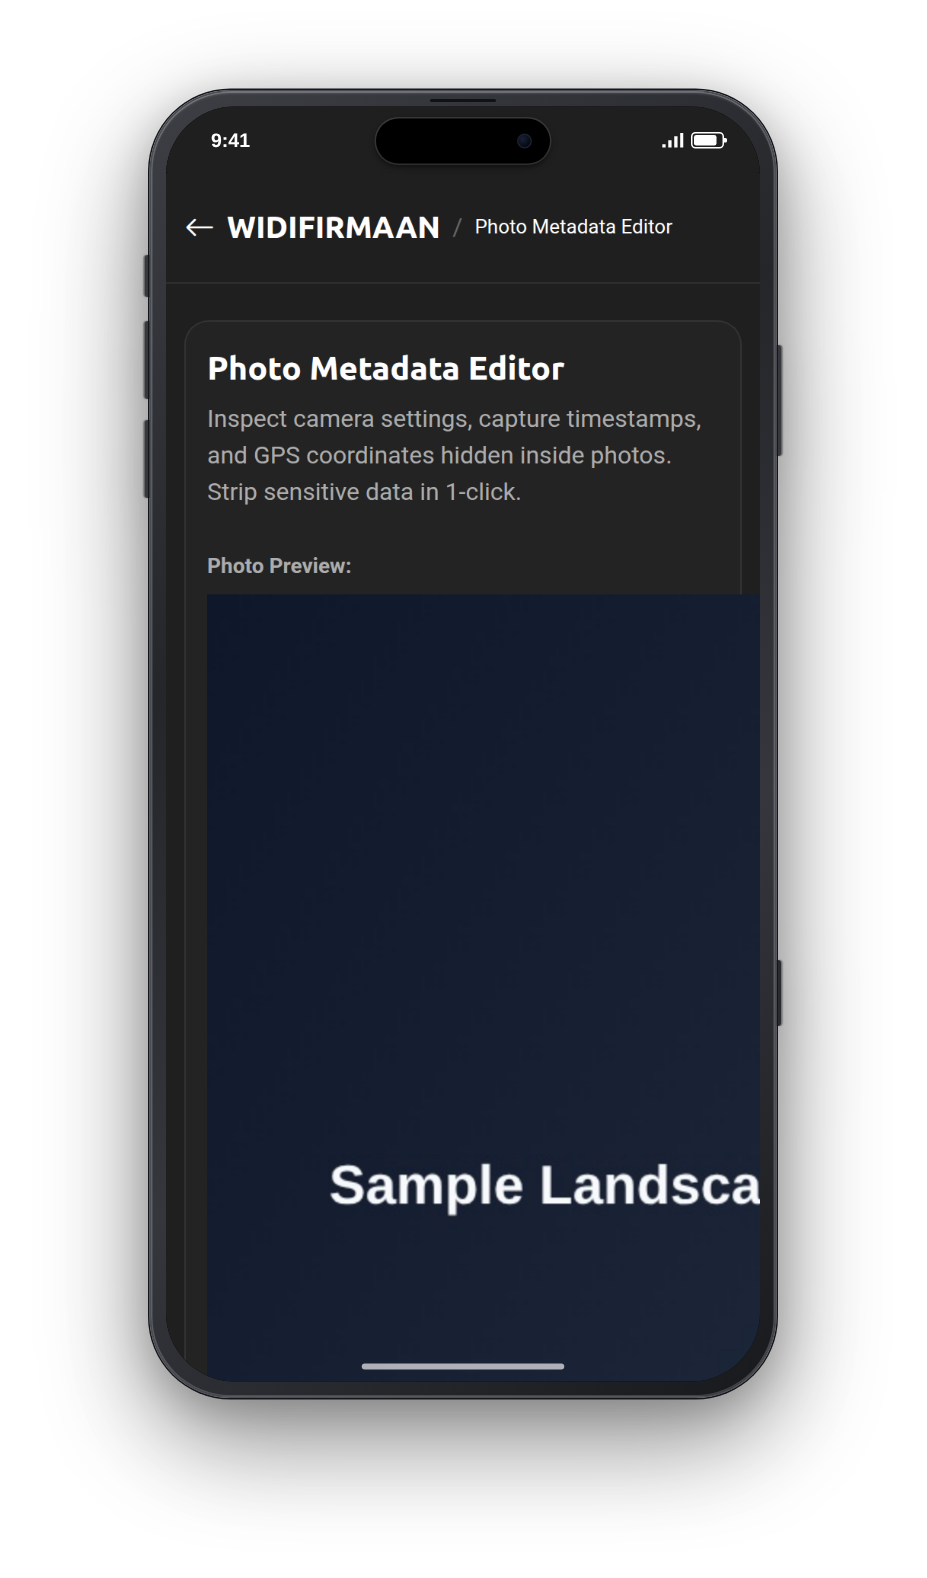
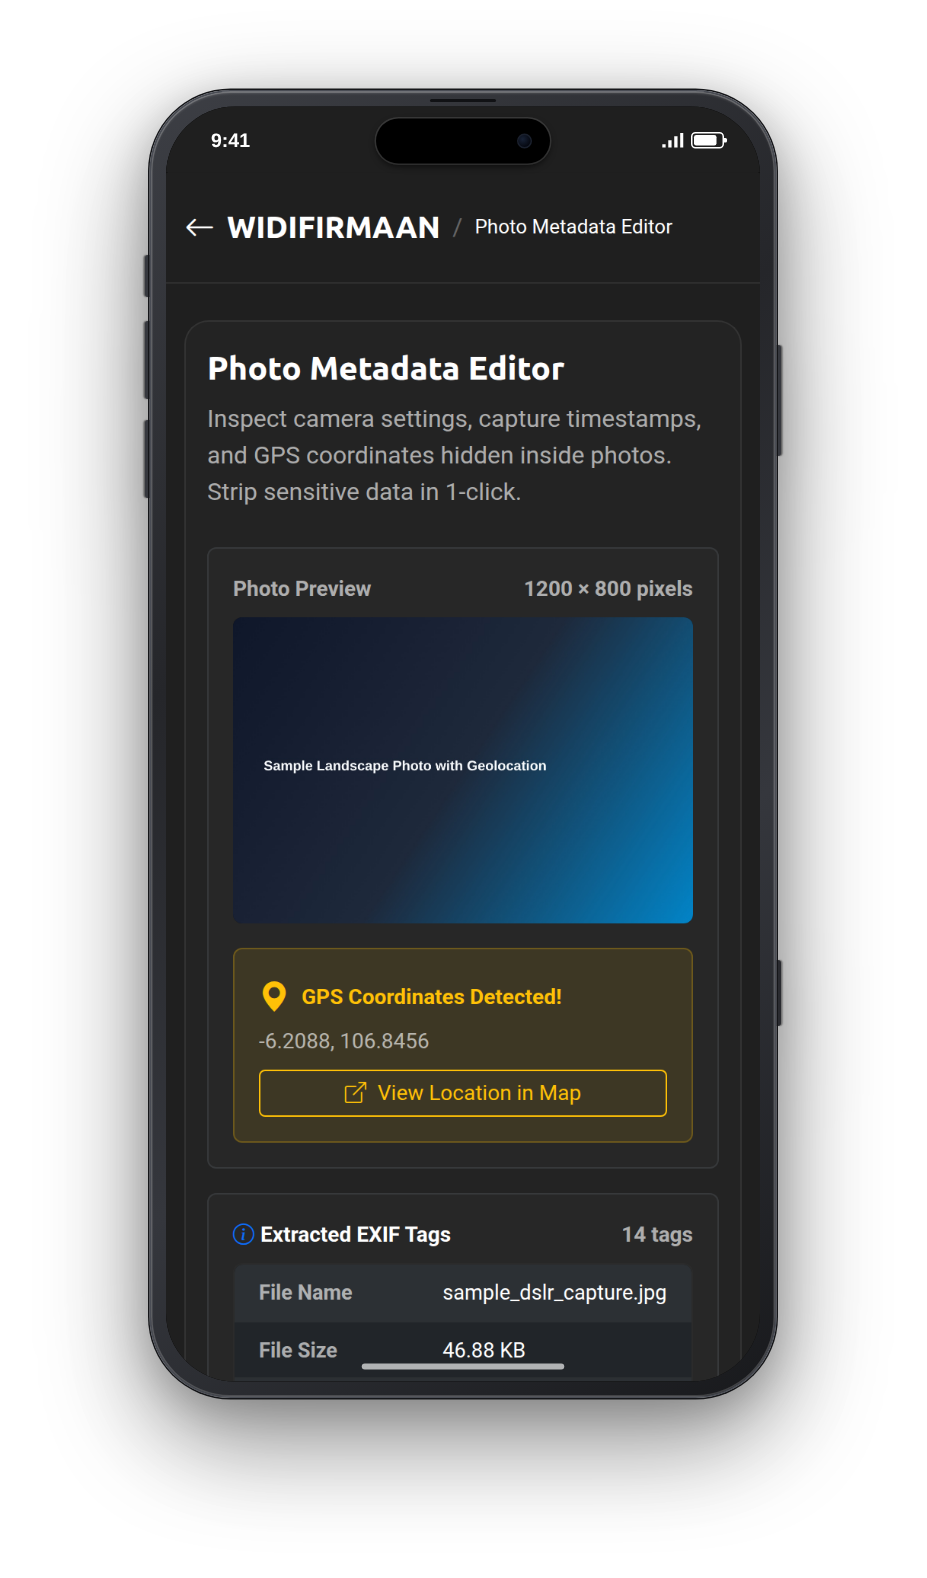
fix(photo-metadata): wrap image preview in checkerboard container and standardize two-column tool-panels

Changed region(s): [[0.2416, 0.3726, 0.8155, 0.8695], [0.2114, 0.3416, 0.3927, 0.4037]]

diff --git a/tools/photo-metadata.html b/tools/photo-metadata.html
@@ -64,36 +64,46 @@
 
               <!-- Metadata Workspace (Hidden initially) -->
               <div id="workspaceArea" class="d-none">
-                <!-- Action Bar -->
-                <div class="row g-4 mb-4">
+                <!-- Comparison / Workspace Panels -->
+                <div class="row g-3 mb-4">
                   <!-- Photo Preview Column -->
-                  <div class="col-md-5">
-                    <label class="form-label text-secondary small fw-bold mb-2">Photo Preview:</label>
-                    <div class="preview-box mb-3">
-                      <img id="photoImgPreview" src="" alt="Photo preview">
-                    </div>
-
-                    <!-- GPS Map Warning Badge (if GPS exists) -->
-                    <div id="gpsAlertBox" class="p-3 rounded border border-warning border-opacity-25 bg-warning bg-opacity-10 d-none">
-                      <div class="d-flex align-items-center gap-2 text-warning fw-bold small mb-1">
-                        <i class="bi bi-geo-alt-fill fs-5"></i> GPS Coordinates Detected!
+                  <div class="col-md-6">
+                    <div class="p-3 rounded border border-secondary border-opacity-25 h-100 d-flex flex-column tool-panel">
+                      <div class="d-flex justify-content-between align-items-center mb-2">
+                        <span class="small fw-semibold text-secondary">Photo Preview</span>
+                        <span class="text-secondary small fw-semibold" id="labelPreviewDims">-</span>
                       </div>
-                      <p class="text-secondary small mb-2" id="gpsCoordText">Lat: 0, Lon: 0</p>
-                      <a id="btnMapLink" href="#" target="_blank" class="btn btn-sm btn-outline-warning py-1 w-100">
-                        <i class="bi bi-box-arrow-up-right me-1"></i> View Location in Map
-                      </a>
+                      <div class="rounded overflow-hidden flex-grow-1 d-flex align-items-center justify-content-center checkerboard-bg mb-3" style="max-height: 280px; min-height: 200px;">
+                        <img id="photoImgPreview" src="" alt="Photo preview" class="img-fluid" style="max-height: 280px; object-fit: contain;">
+                      </div>
+
+                      <!-- GPS Map Warning Badge (if GPS exists) -->
+                      <div id="gpsAlertBox" class="p-3 rounded border border-warning border-opacity-25 bg-warning bg-opacity-10 d-none mt-auto">
+                        <div class="d-flex align-items-center gap-2 text-warning fw-bold small mb-1">
+                          <i class="bi bi-geo-alt-fill fs-5"></i> GPS Coordinates Detected!
+                        </div>
+                        <p class="text-secondary small mb-2" id="gpsCoordText">Lat: 0, Lon: 0</p>
+                        <a id="btnMapLink" href="#" target="_blank" class="btn btn-sm btn-outline-warning py-1 w-100">
+                          <i class="bi bi-box-arrow-up-right me-1"></i> View Location in Map
+                        </a>
+                      </div>
                     </div>
                   </div>
 
                   <!-- Metadata Table Column -->
-                  <div class="col-md-7">
-                    <label class="form-label text-secondary small fw-bold mb-2">Extracted EXIF Tags:</label>
-                    <div class="meta-table-box">
-                      <table class="table table-dark table-sm table-striped align-middle mb-0 bg-transparent">
-                        <tbody id="metaTableBody">
-                          <!-- Populated dynamically -->
-                        </tbody>
-                      </table>
+                  <div class="col-md-6">
+                    <div class="p-3 rounded border border-secondary border-opacity-25 h-100 d-flex flex-column tool-panel">
+                      <div class="d-flex justify-content-between align-items-center mb-2">
+                        <span class="small fw-semibold text-white"><i class="bi bi-info-circle me-1 text-primary"></i>Extracted EXIF Tags</span>
+                        <span class="text-secondary small fw-semibold" id="labelTagCount">0 tags</span>
+                      </div>
+                      <div class="meta-table-box flex-grow-1 overflow-y-auto" style="max-height: 360px;">
+                        <table class="table table-dark table-sm table-striped align-middle mb-0 bg-transparent">
+                          <tbody id="metaTableBody">
+                            <!-- Populated dynamically -->
+                          </tbody>
+                        </table>
+                      </div>
                     </div>
                   </div>
                 </div>
@@ -109,8 +119,8 @@
                     <button type="button" class="btn btn-outline-secondary btn-icon" onclick="resetMetadataViewer()" title="Change Photo" aria-label="Change Photo">
                       <i class="bi bi-arrow-counterclockwise"></i>
                     </button>
-                    <button type="button" class="btn btn-danger btn-icon" id="btnWipeExif" title="Strip All Metadata & Download" aria-label="Strip All Metadata & Download">
-                      <i class="bi bi-shield-slash"></i>
+                    <button type="button" class="btn btn-primary btn-icon" id="btnWipeExif" title="Strip All Metadata & Download" aria-label="Strip All Metadata & Download">
+                      <i class="bi bi-download"></i>
                     </button>
                   </div>
                 </div>
@@ -217,6 +227,11 @@
       currentRawBuffer = null;
       parsedTags = {};
       photoFileInput.value = '';
+      photoImgPreview.src = '';
+      const previewDims = document.getElementById('labelPreviewDims');
+      if (previewDims) previewDims.textContent = '-';
+      const tagCount = document.getElementById('labelTagCount');
+      if (tagCount) tagCount.textContent = '0 tags';
       dropzone.classList.remove('d-none');
       workspaceArea.classList.add('d-none');
     };
@@ -306,17 +321,13 @@
         }
       }
 
-      // Add default metadata if EXIF absent
-      if (!parsedTags['Camera Model']) {
-        const img = new Image();
-        img.onload = () => {
-          parsedTags['Dimensions'] = `${img.naturalWidth} × ${img.naturalHeight} pixels`;
-          renderMetadataTable();
-        };
-        img.src = photoImgPreview.src;
-      } else {
+      // Load natural dimensions for table and preview header
+      const img = new Image();
+      img.onload = () => {
+        parsedTags['Dimensions'] = `${img.naturalWidth} × ${img.naturalHeight} pixels`;
         renderMetadataTable();
-      }
+      };
+      img.src = photoImgPreview.src;
     }
 
     function parseTiffHeader(view, tiffOffset) {
@@ -372,6 +383,11 @@
       metaTableBody.innerHTML = '';
 
       const keys = Object.keys(parsedTags);
+      const tagCountEl = document.getElementById('labelTagCount');
+      if (tagCountEl) tagCountEl.textContent = `${keys.length} tags`;
+      const previewDimsEl = document.getElementById('labelPreviewDims');
+      if (previewDimsEl && parsedTags['Dimensions']) previewDimsEl.textContent = parsedTags['Dimensions'];
+
       if (keys.length === 0) {
         metaTableBody.innerHTML = '<tr><td colspan="2" class="p-3 text-center text-secondary">No EXIF metadata found.</td></tr>';
         return;
@@ -380,8 +396,8 @@
       keys.forEach(k => {
         const row = document.createElement('tr');
         row.innerHTML = `
-          <td class="tag-key px-3 py-2">${k}</td>
-          <td class="tag-val px-3 py-2">${parsedTags[k]}</td>
+          <td class="tag-key px-3 py-2 text-secondary fw-semibold small">${k}</td>
+          <td class="tag-val px-3 py-2 text-white small">${parsedTags[k]}</td>
         `;
         metaTableBody.appendChild(row);
       });
